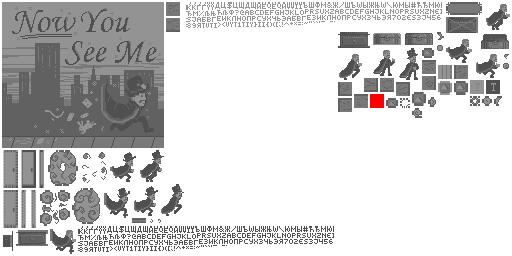
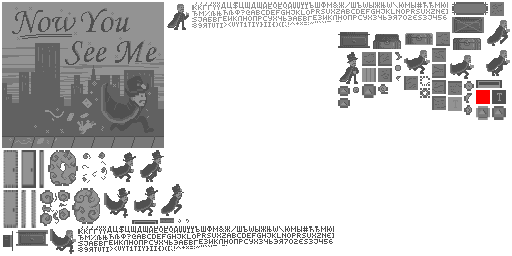
Pressure plates done. Come at me bro. Refs #51

Changed region(s): [[0.3125, 0.0, 1.0, 0.4688], [0.25, 0.8438, 0.3438, 0.875]]

diff --git a/Assets/Resources/Scripts/World.cs b/Assets/Resources/Scripts/World.cs
@@ -12,6 +12,7 @@ public class World : FContainer
     public FTilemap collision;
     public List<Trampoline> trampolineList = new List<Trampoline>();
     public List<Door> doorList = new List<Door>();
+    public List<PressurePlate> plateList = new List<PressurePlate>();
     public List<InteractableObject> interactObjectList = new List<InteractableObject>();
 
     private FContainer bgLayer = new FContainer();
@@ -24,6 +25,7 @@ public class World : FContainer
     private const int CONTAINER_IND = 2;
     private const int DOOR_IND = 3;
     private const int SWITCH_IND = 4;
+    private const int PRESSURE_PLATE_IND = 5;
 
     public World()
     {
@@ -35,6 +37,7 @@ public class World : FContainer
         trampolineList.Clear();
         interactObjectList.Clear();
         doorList.Clear();
+        plateList.Clear();
         player = new Player(this);
         map = new FTmxMap();
         map.clipNode = C.getCameraInstance();
@@ -63,17 +66,19 @@ public class World : FContainer
                     case SWITCH_IND:
                         parseSwitch(node);
                         break;
+                    case PRESSURE_PLATE_IND:
+                        parsePlate(node);
+                        break;
                 }
             }
         }
 
         foreach (InteractableObject o in interactObjectList)
-        {
             if (o is Switch)
-            {
                 ((Switch)o).findDoor(doorList);
-            }
-        }
+
+        foreach (PressurePlate p in plateList)
+            p.findDoor(doorList);
 
         collision = (FTilemap)map.getLayerNamed("Collision");
 
@@ -108,13 +113,10 @@ public class World : FContainer
                     switch (property.attributes["name"].ToLower())
                     {
                         case "spawn":
-                            if (bool.Parse(property.attributes["value"]))
-                            {
                                 player.x = chest.x;
                                 player.y = chest.y;
                                 player.activateChest(chest);
                                 spawnChest = chest;
-                            }
                             break;
                     }
             }
@@ -199,9 +201,36 @@ public class World : FContainer
         objectLayer.AddChild(s);
     }
 
+    private void parsePlate(XMLNode node)
+    {
+        string doorName = "";
+        string actionType = "";
+        float timerValue = -1;
+        if (node.children.Count > 0)
+            foreach (XMLNode property in ((XMLNode)node.children[0]).children)
+            {
+                if (property.attributes.ContainsKey("name"))
+                    switch (property.attributes["name"].ToLower())
+                    {
+                        case "door":
+                            doorName = property.attributes["value"];
+                            break;
+                        case "action":
+                            actionType = property.attributes["value"];
+                            break;
+                        case "time":
+                            if (!float.TryParse(property.attributes["value"], out timerValue))
+                                RXDebug.Log("invalid timer value");
+                            break;
+                    }
+            }
+        PressurePlate p = new PressurePlate(new Vector2(float.Parse(node.attributes["x"]) + map.tileWidth / 2, -float.Parse(node.attributes["y"]) + map.tileHeight / 2), doorName, actionType, timerValue);
+        plateList.Add(p);
+        objectLayer.AddChild(p);
+    }
+
     public bool getMoveable(float xPos, float yPos)
     {
-
         int frameNum = collision.getFrameNumAt(xPos, yPos);
         return frameNum != 1 &&
                frameNum != -1;
@@ -221,6 +250,14 @@ public class World : FContainer
         }
         return null;
     }
+    
+    public bool checkPlate(PressurePlate p, float xPos, float yPos)
+    {
+            return p.x - PressurePlate.COLLISION_WIDTH / 2 < xPos &&
+                p.x + PressurePlate.COLLISION_WIDTH / 2 > xPos &&
+                p.y - map.tileHeight / 2 + PressurePlate.COLLISION_HEIGHT > yPos;
+    }
+
     public bool getOneWay(float xPos, float yPos)
     {
         int frameNum = collision.getFrameNumAt(xPos, yPos);
@@ -232,6 +269,24 @@ public class World : FContainer
         InteractableObject obj = checkInteractObjects();
         if (obj != null)
             player.setInteractObject(obj);
+    }
+
+    public PressurePlate checkPlates(float xPos, float yPos)
+    {
+        PressurePlate result = null;
+        for (int x = 0; x < plateList.Count; x++)
+        {
+            if (result == null && checkPlate(plateList[x], xPos, yPos))
+            {
+                plateList[x].press(player);
+                result = plateList[x];
+            }
+            else
+            {
+                plateList[x].unpress();
+            }
+        }
+        return result;
     }
 
     private InteractableObject checkInteractObjects()

diff --git a/Assets/Resources/Scripts/Player/Player.cs b/Assets/Resources/Scripts/Player/Player.cs
@@ -24,8 +24,8 @@ public class Player : FContainer
     Hat hat;
     World world;
     int jumpsLeft = 0;
-    float xMove = 0;
-    float yMove = 0;
+    public float xMove = 0;
+    public float yMove = 0;
     float stateCount = 0;
     bool isFacingLeft = false;
     bool isLooting = false;
@@ -568,7 +568,7 @@ public class Player : FContainer
                 Door doorCollision = world.checkDoor(x, x + collisionWidth / 2 + xStep, y);
                 if (doorCollision != null)
                 {
-                    this.x = doorCollision.x - collisionWidth / 2 - Door.DOOR_COLLISION_WIDTH/ 2;
+                    this.x = doorCollision.x - collisionWidth / 2 - Door.DOOR_COLLISION_WIDTH / 2;
                     this.xMove = 0;
                     return;
                 }
@@ -654,11 +654,23 @@ public class Player : FContainer
     private void tryMoveDown(float yMove)
     {
         bool onOneWay = world.getOneWay(x, y - playerSprite.height / 2 + yMove);
+        PressurePlate p = world.checkPlates(this.x, this.y - playerSprite.height / 2 + yMove);
+        if (p != null)
+        {
+            this.y = p.y - 6 + collisionHeight / 2 + PressurePlate.PRESSED_HEIGHT;
+            this.yMove = 0;
+            this.isGrounded = true;
+            this.jumpsLeft = 1;
+            return;
+        }
         if (world.getMoveable(x - collisionWidth * .9f / 2, y - playerSprite.height / 2 + yMove) &&
             world.getMoveable(x + collisionWidth * .9f / 2, y - playerSprite.height / 2 + yMove) && !onOneWay)
         {
-            this.y += yMove;
-            isGrounded = false;
+                this.y += yMove;
+                isGrounded = false;
+
+            
+
         }
         else
         {

diff --git a/Assets/Resources/Scripts/Objects/PressurePlate.cs b/Assets/Resources/Scripts/Objects/PressurePlate.cs
@@ -1,0 +1,45 @@
+using System;
+using System.Collections.Generic;
+using System.Linq;
+using System.Text;
+using UnityEngine;
+
+public class PressurePlate : Switch
+{
+    public const float COLLISION_WIDTH = 24;
+    public const float COLLISION_HEIGHT = 12;
+    public const float PRESSED_HEIGHT = 6;
+    public Player playerOn = null;
+    public PressurePlate(Vector2 pos, string doorName, string actionType, float time)
+        : base(pos, doorName, actionType, time)
+    {
+        this.X_INTERACT_DIST = 24;
+        this.SetPosition(pos);
+        interactSprite.RemoveFromContainer();
+        interactSprite = new FAnimatedSprite("PressurePlate/pressurePlate");
+        interactSprite.addAnimation(new FAnimation("up", new int[] { 1 }, 100, true));
+        interactSprite.addAnimation(new FAnimation("down", new int[] { 2 }, 100, true));
+
+        interactSprite.play("up");
+        this.AddChild(interactSprite);
+    }
+
+    bool pressed = false;
+    public void press(Player p)
+    {
+        interactSprite.play("down");
+        timeCount = 0;
+        if (!pressed)
+        {
+            pressed = true;
+            this.interact(p);
+        }
+    }
+    public void unpress()
+    {
+        pressed = false;
+        interactSprite.play("up");
+    }
+
+}
+

diff --git a/Assets/Resources/Scripts/Objects/Switch.cs b/Assets/Resources/Scripts/Objects/Switch.cs
@@ -10,7 +10,7 @@ public class Switch : InteractableObject
     private Door door;
     private string actionType;
     private float time;
-    private float timeCount = 0;
+    protected float timeCount = 0;
     public Switch(Vector2 pos, string doorName, string actionType, float time)
     {
         this.X_INTERACT_DIST = 24;
@@ -42,7 +42,7 @@ public class Switch : InteractableObject
     }
 
     float particleDist = 2;
-    bool triggered = false;
+    protected bool triggered = false;
     public override void interact(Player p)
     {
         switch (actionType)
